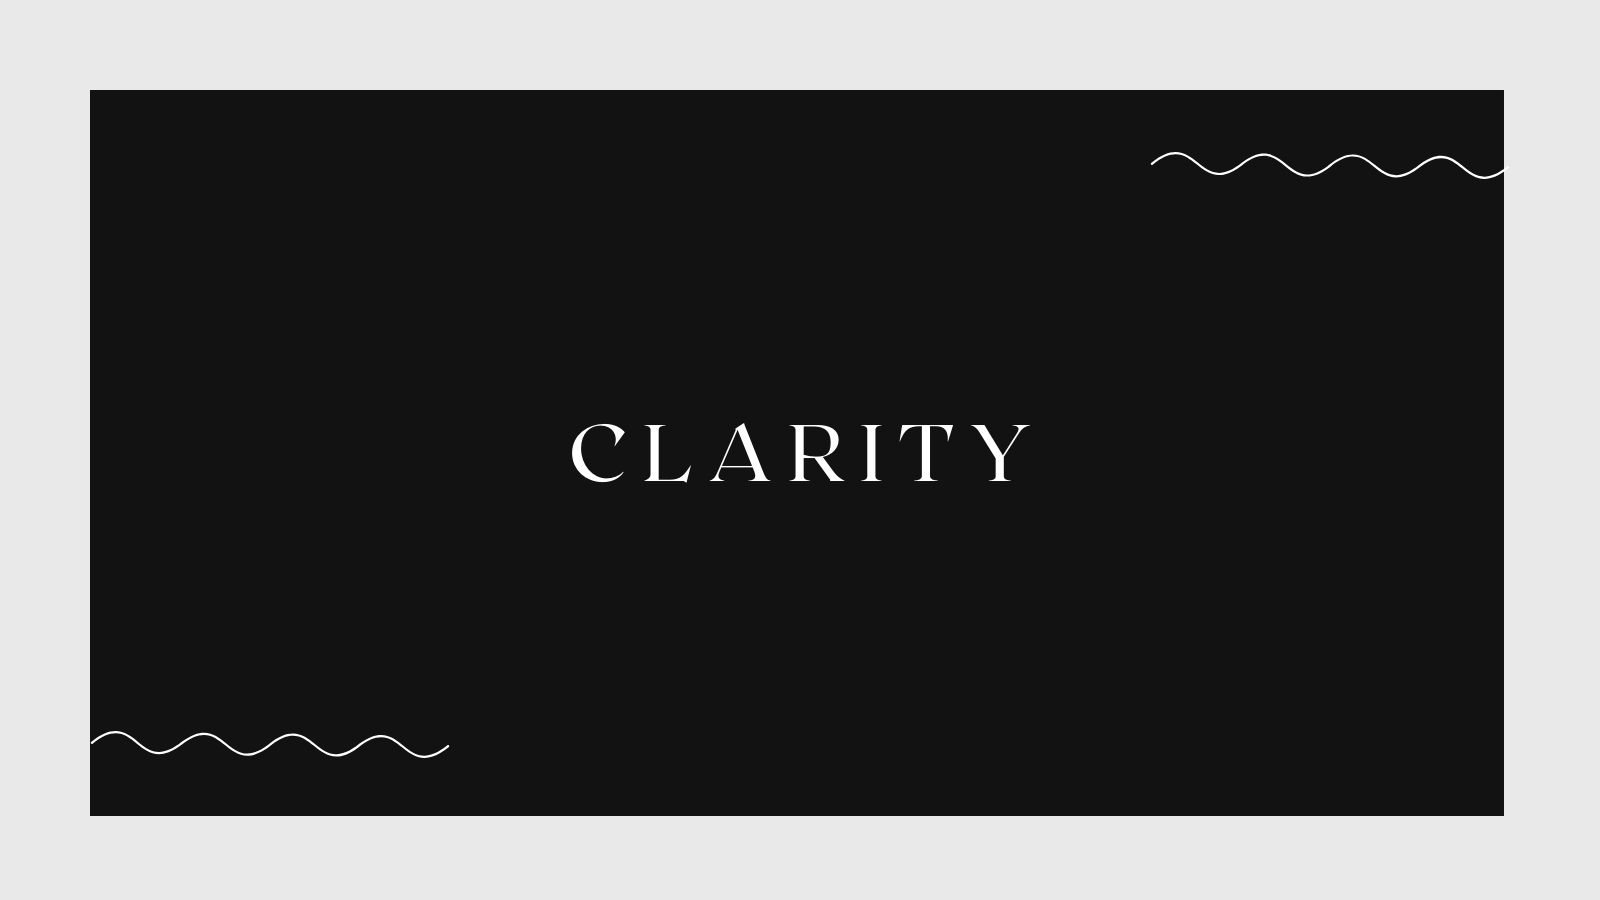
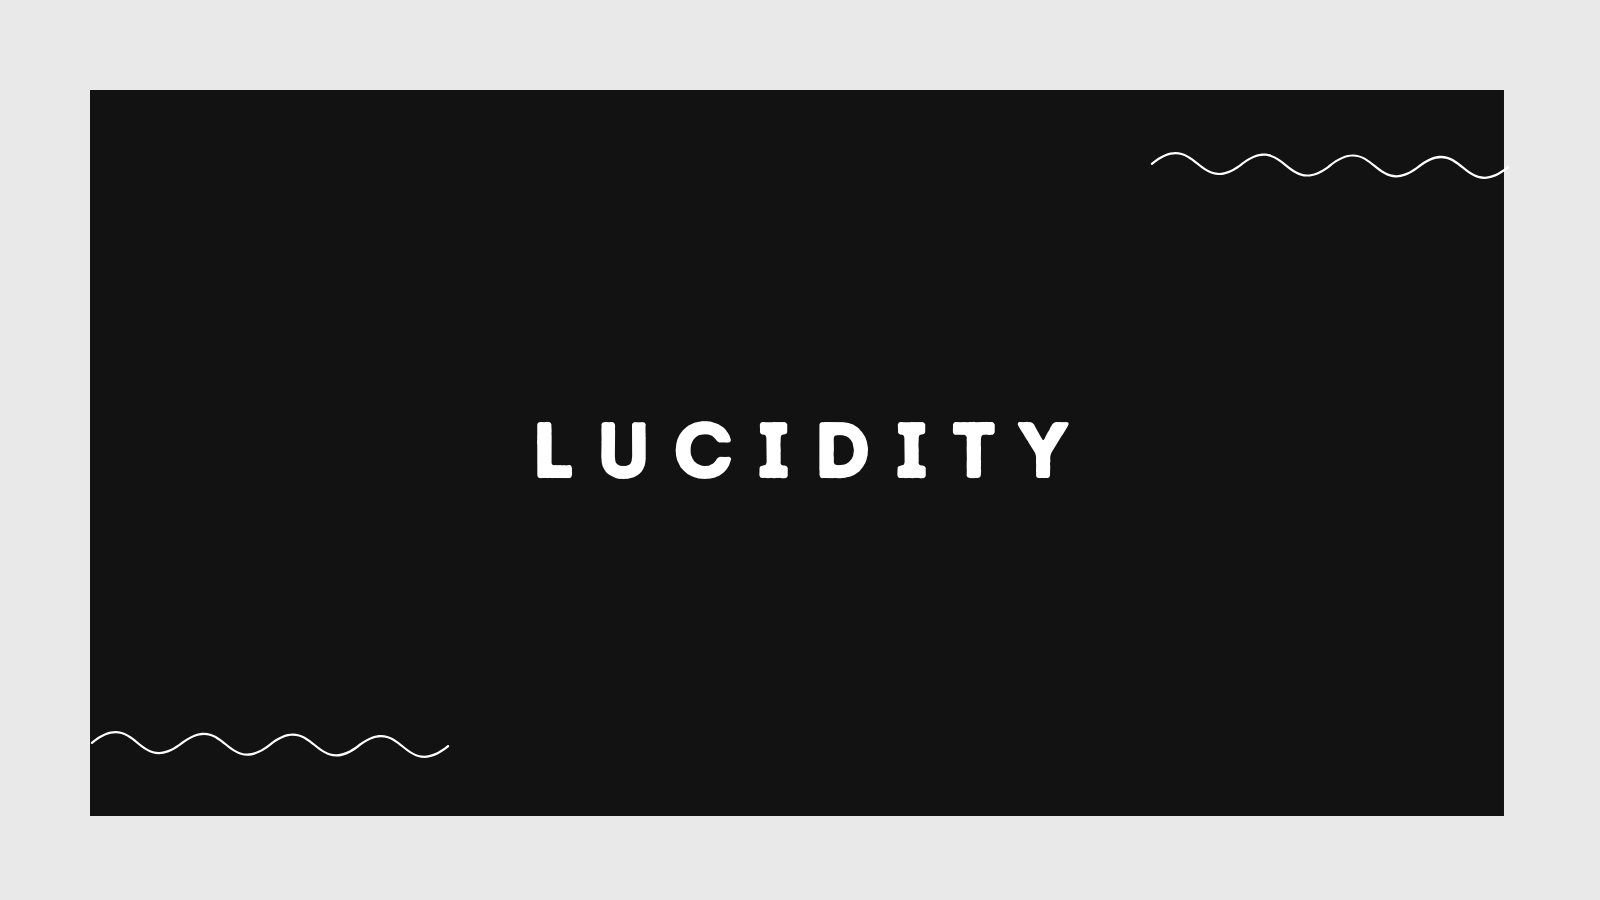
♻ Update for new company name

Changed region(s): [[0.3125, 0.4667, 0.6875, 0.56]]

diff --git a/readme.md b/readme.md
@@ -1,7 +1,7 @@
-# Complete Clarity
+# L U C I D I T Y
 
-**Complete Clarity** is a New World company on the US-Eastern/Dominora server. It was founded on July 23, 2021 by **V I B E Z** with the singular purpose of helping players who are new find their way, in a positive, drama-free, supportive, and welcoming environment.
+**L U C I D I T Y** is a New World company on the US-Eastern/Himavanta server. It was founded on July 23, 2021 by **V I B E Z** with the singular purpose of helping players who are new find their way in a positive, drama-free, supportive, and welcoming environment.
 
 ---
 
-Created by [@macjabeth](https://github.com/macjabeth) and powered by [Nextra](), a static site generator using [Next.js](https://nextjs.org) and [MDX](https://mdxjs.com).
+Created by [@macjabeth](https://github.com/macjabeth) and powered by [Nextra](https://nextra.vercel.app/), a static site generator using [Next.js](https://nextjs.org) and [MDX](https://mdxjs.com).
